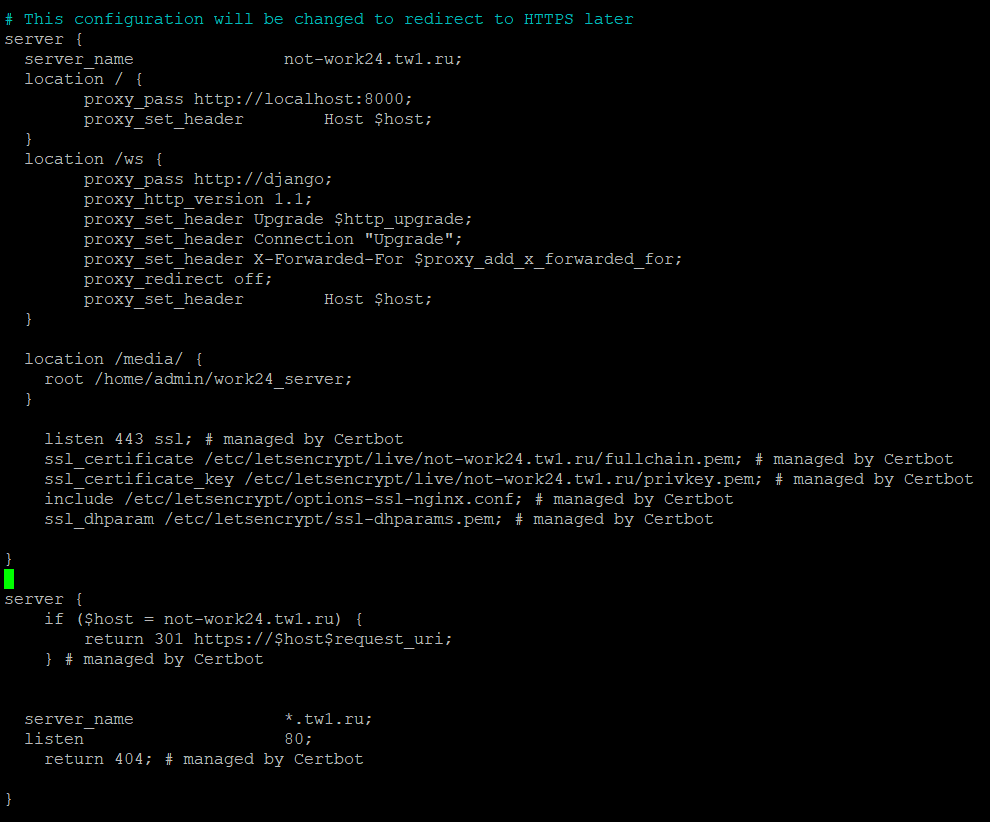
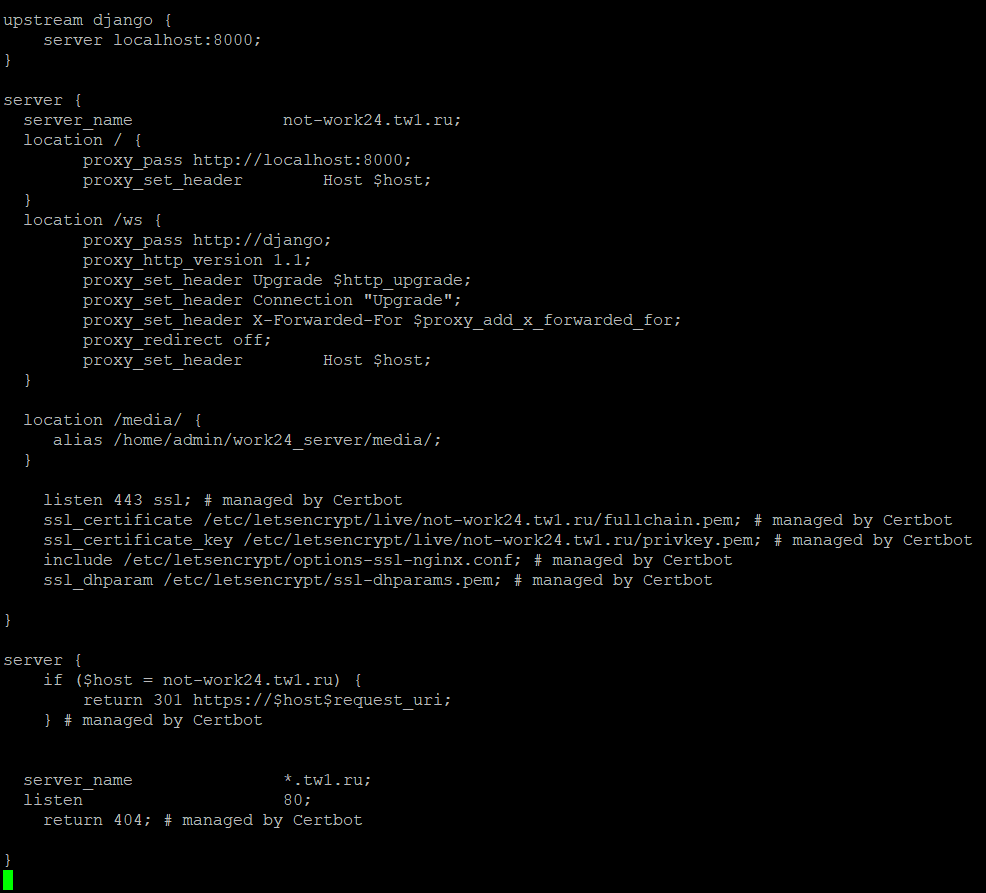
add lab1 *

diff --git a/lab1/lab1.md b/lab1/lab1.md
@@ -71,12 +71,58 @@
 `30 3 * * 2 /usr/bin/certbot renew >> /var/log/renew-ssl.log`
 
 Конфигурация NGINX после подключения сертификата:
-![Готовая конфигурация](img.png)
+![img.png](img.png)
 
-На конфигурации виден 301 редирект на https
+На конфигурации виден 301 редирект на https и alias, который используется для файлов media
 
 Проверка работы сайта:
 ![img_2.png](img_2.png)
 
 На прод-сервере конфигурация с wildcard Let's Encrypt сертификатом
 ![Wildcard конфигурация](img_1.png)
+
+## Часть со звездочкой
+
+Для части со звездочкой тестировался сайт https://not-autosender.ru/ - копия действующего сайта
+
+### HTTP Smuggling 
+
+Первая уязвимость, на которую проверен сайт, запущенный на NGINX – HTTP Smuggling 
+Для проверки на уязвимость отправляются запросы с конфликтующими заголовками, например Content-Length и Transfer-Encoding: chunked. 
+Первый запрос представлен на рисунке
+
+![img_3.png](img_3.png)
+
+На используемый URL не разрешен метод POST. Для еще одного теста был найден POST-запрос в логах браузера
+и на него отправлен запрос с конфликтующими заголовками.
+
+Отправка POST-запроса на валидный URL с данными формата text выдало ошибку SQL
+![img_4.png](img_4.png)
+
+Данные в формате JSON не вызвали никаких ошибок, вернули статус 200
+
+Также была выполнена проверка с помощью Burp Suit. Сервер вернул Request Timeout
+![img_6.png](img_6.png)
+
+Уязвимость HTTP Smuggling не обнаружена
+
+## XSS (Cross-Site Scripting) 
+
+XSS (Cross-Site Scripting) — это уязвимость, которая позволяет злоумышленникам внедрять и 
+исполнять вредоносные скрипты в браузере других пользователей. Если сервер неправильно обрабатывает и отображает пользовательский 
+ввод (например, поисковые запросы, формы обратной связи и т.д.), злоумышленник может внедрить вредоносный код (например,
+JavaScript) в ответ, который выполнится у других пользователей при просмотре страницы.
+
+![img_5.png](img_5.png)
+
+Попытка вместо значения подставить скрипт не привел к выполнению скрипта на странице несмотря на отображение без экранирования.
+Из этого следует, что сервер защищен от атак типа XSS 
+
+## Уязвимость из-за отсутствия заголовков безопасности
+тсутствие важнейших заголовков безопасности, таких как X-Content-Type-Options, X-Frame-Options или Strict-Transport-Security, может сделать сервер уязвимым к ряду атак
+
+Проверить данную уязвимость можно посредством сайта SecurityHeaders (https://securityheaders.com/)
+
+![img_7.png](img_7.png)
+
+Сайт уязвим, так как не проверяет наличие заголовков безопасности
